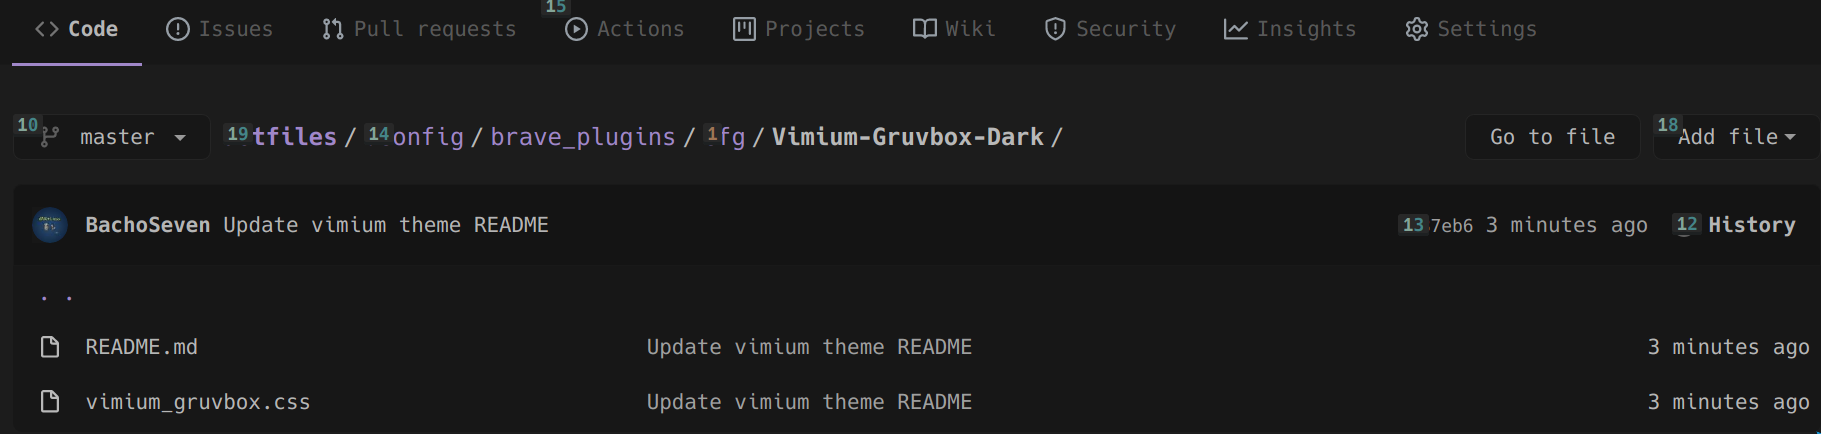
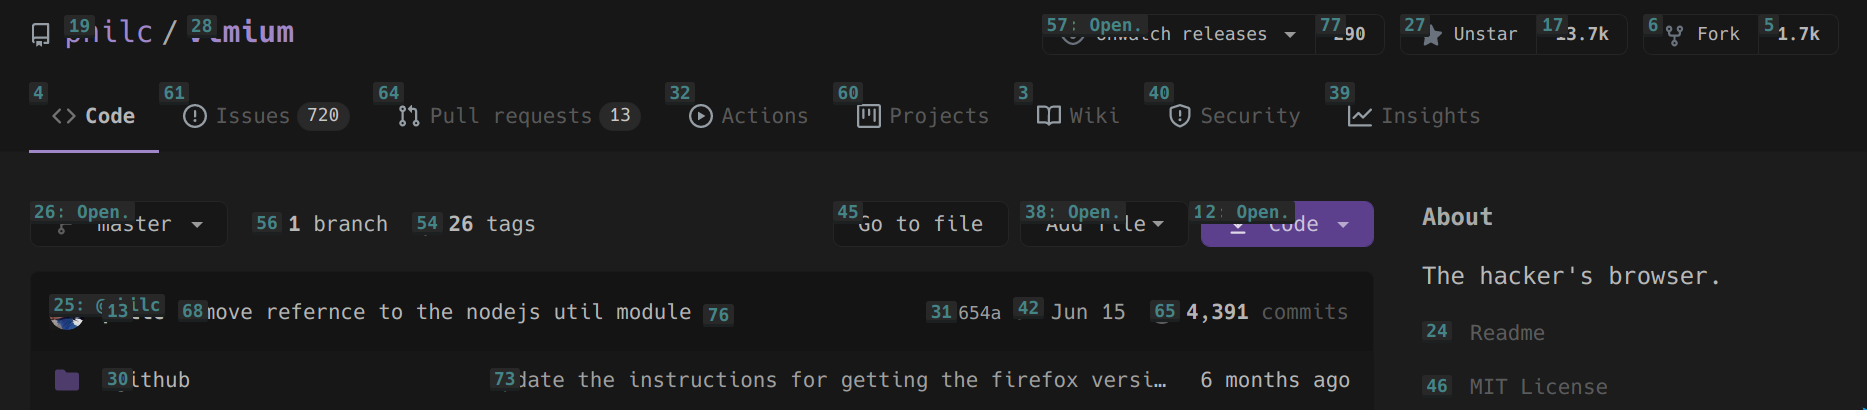
Last update for vimium gruvbox dark theme
Former-commit-id: 92d6e251a62689a330b62fa9e0e304789d8ed51f
Former-commit-id: 963d93133e3c7be81f90832833209bd5a1f4cac0

diff --git a/.config/brave_plugins/cfg/Vimium-Gruvbox-Dark/README.md b/.config/brave_plugins/cfg/Vimium-Gruvbox-Dark/README.md
@@ -7,5 +7,8 @@
 
 ## Screens
 
-![](screens/hints.png)
 ![](screens/vomnibar.png)
+
+![](screens/hints_letters.png)
+
+![](screens/hints.png)
